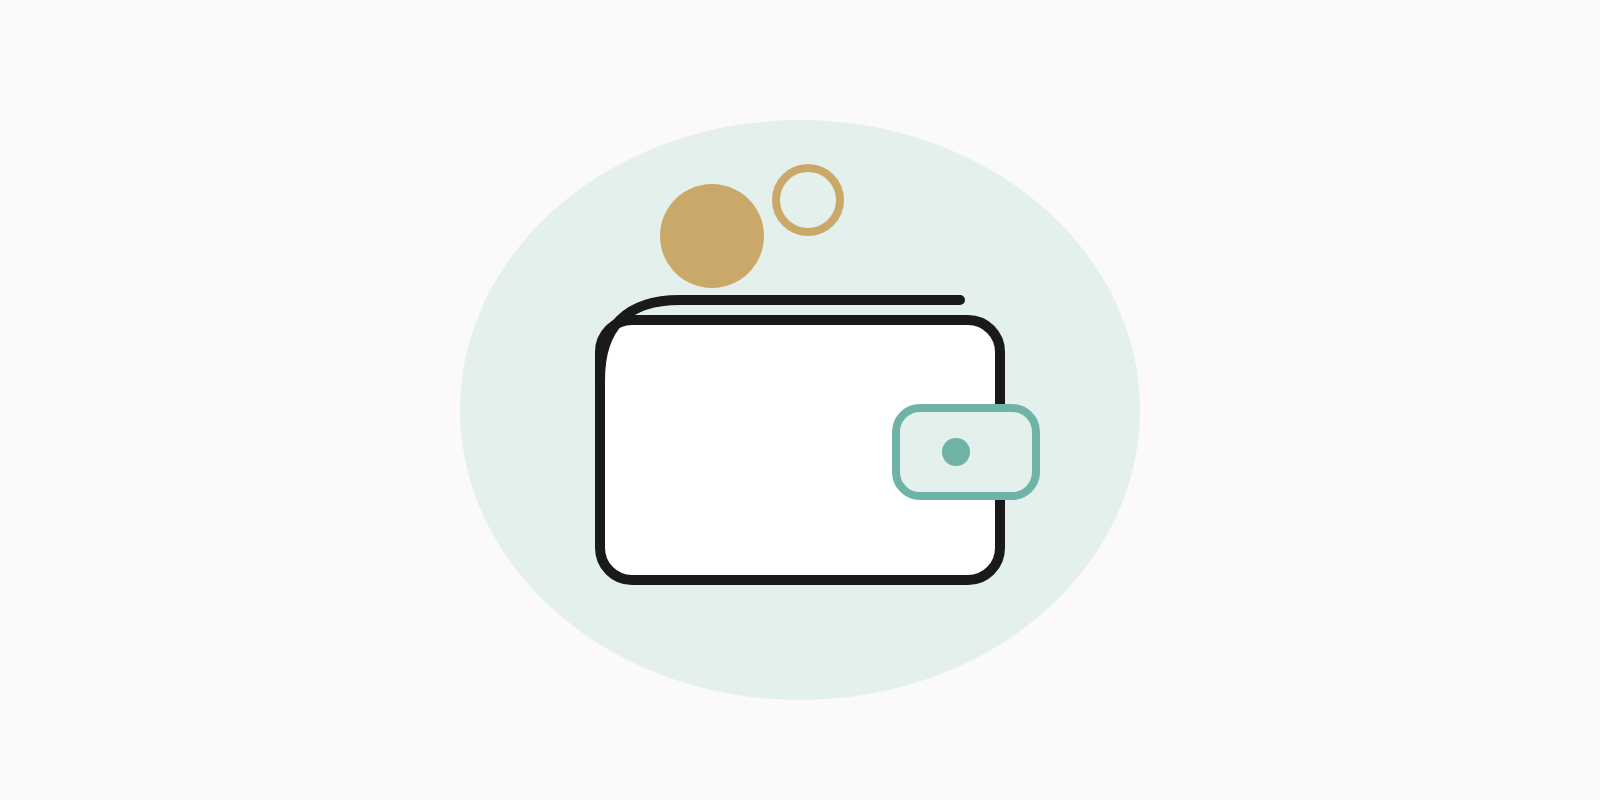
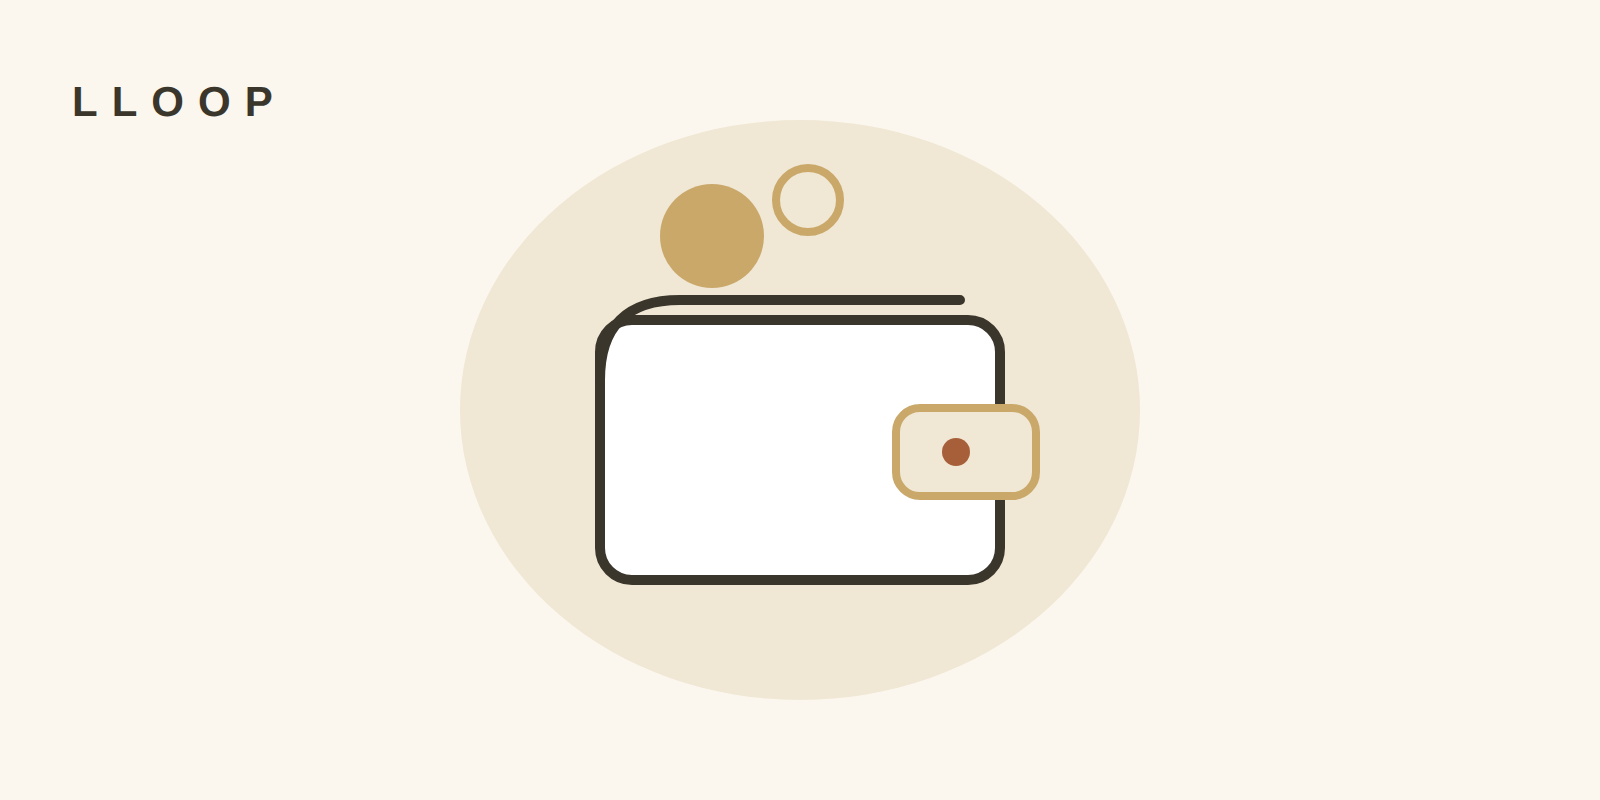
design(line-flex): match real LLOOP atelier palette
The first pass used the mint/sage accent; the shop UI actually runs on
a warm atelier palette (dark-olive #3B362C CTAs like the site's book
button, clay #A75F3A as the dominant accent, gold #C9A86A labels, sand
and cream surfaces). Reworked to match:

- line-flex/*.png re-rendered: cream #FBF7EE canvas, dark-olive
  strokes, clay/gold/sand accents, navy swatch in the color-analysis
  fan, and the letterspaced LLOOP wordmark on every tile
- templates doc: primary buttons #3B362C, gold kickers, clay link
  buttons and warnings, warm muted text #7C7361
- family.html invite card recolored to the same tokens

Claude-Session: https://claude.ai/code/session_01XMUJV6NnJoqoemGWEcnh6o

diff --git a/line-flex/src/art-generator.html b/line-flex/src/art-generator.html
@@ -1,9 +1,12 @@
-<!doctype html><html><head><meta charset="utf-8"><style>
+<!doctype html><html><head><meta charset="utf-8">
+<link href="https://fonts.googleapis.com/css2?family=Poppins:wght@600;700&display=swap" rel="stylesheet">
+<style>
 body{margin:0;background:#fff}
-.tile{width:800px;height:400px;background:#FBFAF8;display:block}
+.tile{width:800px;height:400px;background:#FBF7EE;display:block}
 </style></head><body>
 <script>
-const INK='#1A1A1A', SAGE='#6FB3A6', SAGEBG='#E4F0EC', GOLD='#C9A86A', CLAY='#A75F3A', MUT='#8C8B86';
+// พาเลตต์ LLOOP จริง (จาก index.html/g.html): น้ำตาลเข้ม + clay + ทราย + ครีม + ทอง
+const INK='#3B362C', SAGE='#A75F3A', SAGEBG='#F0E7D4', GOLD='#C9A86A', CLAY='#A75F3A', MUT='#8A7A5E', NAVY='#2B5070';
 const S=`fill="none" stroke="${INK}" stroke-width="5" stroke-linecap="round" stroke-linejoin="round"`;
 const SG=`fill="none" stroke="${SAGE}" stroke-width="5" stroke-linecap="round" stroke-linejoin="round"`;
 const GD=`fill="none" stroke="${GOLD}" stroke-width="4" stroke-linecap="round" stroke-linejoin="round"`;
@@ -24,7 +27,7 @@ const receipt=(x,y,w=180,h=210)=>`<g transform="translate(${x},${y})">
   <path d="M0 0 H${w} V${h-16} L${w-w/6} ${h} L${w-w/3} ${h-16} L${w/2} ${h} L${w/3} ${h-16} L${w/6} ${h} L0 ${h-16} Z" fill="#fff" ${S.replace('fill="none" ','')}/>
   <line x1="28" y1="44" x2="${w-28}" y2="44" ${S}/><line x1="28" y1="80" x2="${w-28}" y2="80" ${S}/>
   <line x1="28" y1="116" x2="${w-60}" y2="116" ${S}/></g>`;
-const check=(x,y,r=42)=>`<circle cx="${x}" cy="${y}" r="${r}" fill="${SAGE}"/>
+const check=(x,y,r=42)=>`<circle cx="${x}" cy="${y}" r="${r}" fill="${INK}"/>
   <path d="M${x-r*0.45} ${y} L${x-r*0.1} ${y+r*0.35} L${x+r*0.5} ${y-r*0.3}" fill="none" stroke="#fff" stroke-width="7" stroke-linecap="round" stroke-linejoin="round"/>`;
 const alert=(x,y,r=42,c=CLAY)=>`<circle cx="${x}" cy="${y}" r="${r}" fill="${c}"/>
   <line x1="${x}" y1="${y-r*0.45}" x2="${x}" y2="${y+r*0.1}" stroke="#fff" stroke-width="8" stroke-linecap="round"/>
@@ -34,7 +37,7 @@ const box=(x,y,w=200,h=120)=>`<g transform="translate(${x},${y})">
   <rect x="${-w/2}" y="0" width="${w}" height="${h}" rx="6" fill="#fff" ${S.replace('fill="none" ','')}/>
   <line x1="0" y1="0" x2="0" y2="${h}" ${S}/>
   <path d="M${-w/2} 0 L${-w/2-34} -34 M${w/2} 0 L${w/2+34} -34 M${-w/2-34} -34 L${-6} -34 M${w/2+34} -34 L${6} -34" ${S}/>
-  <rect x="-22" y="${h*0.42}" width="44" height="26" rx="4" fill="${SAGEBG}" stroke="${SAGE}" stroke-width="4"/></g>`;
+  <rect x="-22" y="${h*0.42}" width="44" height="26" rx="4" fill="${SAGEBG}" stroke="${GOLD}" stroke-width="4"/></g>`;
 
 const ART = {
 // 1 ต้อนรับ/KYC ผ่าน — เดรสบนไม้แขวน + เช็ค
@@ -66,7 +69,7 @@ shipped: blob(430,210)+`<g transform="translate(300,150)">
   <path d="M180 34 H244 L272 72 V110 H180" fill="#fff" ${S}/>
   <line x1="196" y1="34" x2="196" y2="72" ${S}/><line x1="196" y1="72" x2="244" y2="72" ${S}/>
   <circle cx="52" cy="118" r="22" fill="${SAGEBG}" ${S}/><circle cx="224" cy="118" r="22" fill="${SAGEBG}" ${S}/>
-  <rect x="30" y="26" width="86" height="52" rx="6" fill="${SAGEBG}" stroke="${SAGE}" stroke-width="4"/></g>
+  <rect x="30" y="26" width="86" height="52" rx="6" fill="${SAGEBG}" stroke="${GOLD}" stroke-width="4"/></g>
   <line x1="176" y1="196" x2="252" y2="196" ${SG}/><line x1="150" y1="230" x2="238" y2="230" ${SG}/><line x1="188" y1="264" x2="248" y2="264" ${SG}/>`,
 // 7 เตือนคืน/กรอกเลขพัสดุ — กล่อง + ลูกศรวนกลับ
 'return': blob()+box(430,168)+`<path d="M300 262 Q210 250 216 172 Q222 112 296 108" ${SG}/>
@@ -103,7 +106,7 @@ queue: blob()+`<g transform="translate(400,196)">
 // 14 เครดิต — กระเป๋าเงิน + เหรียญ
 credit: blob()+`<rect x="300" y="160" width="200" height="130" rx="16" fill="#fff" ${S.replace('fill="none" ','')}/>
   <path d="M300 190 Q300 150 340 150 H480" ${S}/>
-  <rect x="448" y="204" width="70" height="44" rx="12" fill="${SAGEBG}" stroke="${SAGE}" stroke-width="4"/><circle cx="478" cy="226" r="7" fill="${SAGE}"/>
+  <rect x="448" y="204" width="70" height="44" rx="12" fill="${SAGEBG}" stroke="${GOLD}" stroke-width="4"/><circle cx="478" cy="226" r="7" fill="${SAGE}"/>
   <circle cx="356" cy="118" r="26" fill="${GOLD}"/><circle cx="404" cy="100" r="16" fill="${SAGEBG}" stroke="${GOLD}" stroke-width="4"/>`,
 // 15 วันเกิด — เค้ก + เทียน
 birthday: blob()+`<g transform="translate(400,180)">
@@ -117,8 +120,8 @@ birthday: blob()+`<g transform="translate(400,180)">
 style: blob()+`<g transform="translate(400,286)">
   <g transform="rotate(-42)"><rect x="-30" y="-186" width="60" height="150" rx="10" fill="${CLAY}"/></g>
   <g transform="rotate(-14)"><rect x="-30" y="-196" width="60" height="160" rx="10" fill="${GOLD}"/></g>
-  <g transform="rotate(14)"><rect x="-30" y="-196" width="60" height="160" rx="10" fill="${SAGE}"/></g>
-  <g transform="rotate(42)"><rect x="-30" y="-186" width="60" height="150" rx="10" fill="#fff" stroke="${SAGE}" stroke-width="4"/></g>
+  <g transform="rotate(14)"><rect x="-30" y="-196" width="60" height="160" rx="10" fill="${NAVY}"/></g>
+  <g transform="rotate(42)"><rect x="-30" y="-186" width="60" height="150" rx="10" fill="#fff" stroke="#A39472" stroke-width="4"/></g>
   <circle cx="0" cy="0" r="24" fill="#fff" ${S}/></g>`+spark(258,140,11)+spark(556,150,9,SAGE),
 // 17 นัดสไตลิสต์ — ปฏิทิน + นาฬิกา
 stylist: blob()+`<rect x="272" y="108" width="230" height="196" rx="14" fill="#fff" ${S.replace('fill="none" ','')}/>
@@ -148,9 +151,11 @@ contract: blob()+`<path d="M300 96 H460 L500 136 V304 H300 Z" fill="#fff" ${S}/>
   <path d="M330 278 Q352 262 368 278 Q384 292 404 276" ${SG}/>
   <g transform="translate(474,250) rotate(45)"><rect x="-9" y="-64" width="18" height="86" rx="6" fill="${GOLD}"/><path d="M-9 22 L0 44 L9 22 Z" fill="${INK}"/></g>`,
 };
+// โลโก้ LLOOP มุมบนซ้าย — Poppins เว้นช่องไฟตาม .logo ของเว็บ (letter-spacing .18em)
+const wordmark=`<text x="36" y="58" font-family="'Poppins',sans-serif" font-size="21" font-weight="700" letter-spacing="7" fill="${INK}">LLOOP</text>`;
 for (const [name, inner] of Object.entries(ART)) {
   const d=document.createElement('div'); d.className='tile'; d.id='tile-'+name;
-  d.innerHTML=`<svg width="800" height="400" viewBox="0 0 800 400" xmlns="http://www.w3.org/2000/svg"><rect width="800" height="400" fill="#FBFAF8"/>${inner}</svg>`;
+  d.innerHTML=`<svg width="800" height="400" viewBox="0 0 800 400" xmlns="http://www.w3.org/2000/svg"><rect width="800" height="400" fill="#FBF7EE"/>${inner}${wordmark}</svg>`;
   document.body.appendChild(d);
 }
 </script></body></html>

diff --git a/family.html b/family.html
@@ -870,14 +870,14 @@ function bindInvite(){
             type:'bubble',
             hero:{ type:'image', url:'https://wearlloop-dotcom.github.io/line-flex/group.png', size:'full', aspectRatio:'2:1', aspectMode:'cover' },
             body:{ type:'box', layout:'vertical', spacing:'sm', contents:[
-              { type:'text', text:NAV.t('ชวนเข้ากลุ่ม','Group invite'), size:'xs', color:'#6FB3A6', weight:'bold' },
+              { type:'text', text:NAV.t('ชวนเข้ากลุ่ม','Group invite'), size:'xs', color:'#C9A86A', weight:'bold' },
               { type:'text', text:gname, weight:'bold', size:'xl', wrap:true, color:'#1A1A1A' },
-              { type:'text', text:NAV.t('จัดชุดเข้าตีม เช่าพร้อมกันออเดอร์เดียว','Dress in one theme, rent in one order'), size:'sm', color:'#8C8B86', wrap:true }
+              { type:'text', text:NAV.t('จัดชุดเข้าตีม เช่าพร้อมกันออเดอร์เดียว','Dress in one theme, rent in one order'), size:'sm', color:'#7C7361', wrap:true }
             ]},
             footer:{ type:'box', layout:'vertical', spacing:'sm', contents:[
-              { type:'button', style:'primary', color:'#6FB3A6',
+              { type:'button', style:'primary', color:'#3B362C',
                 action:{ type:'uri', label:NAV.t('เข้าร่วมกลุ่ม','Join the group'), uri: inviteUrl } },
-              { type:'button', style:'link', height:'sm',
+              { type:'button', style:'link', height:'sm', color:'#A75F3A',
                 action:{ type:'uri', label:NAV.t('ดูชุดให้เช่าก่อน','Browse dresses first'), uri:'https://liff.line.me/'+((window.CONFIG&&window.CONFIG.LIFF_ID)||'') } } ]}
           }}]);
           return;

diff --git a/line-flex/src/render.js b/line-flex/src/render.js
@@ -7,6 +7,8 @@ const fs = require('fs');
   const browser = await chromium.launch();
   const page = await browser.newPage({ deviceScaleFactor: 2, viewport: { width: 900, height: 500 } });
   await page.goto('file://' + path.join(__dirname, 'art.html'));
+  await page.evaluate(() => document.fonts.ready);
+  await page.waitForTimeout(800);
   const tiles = await page.$$('.tile');
   for (const t of tiles) {
     const id = await t.getAttribute('id');
